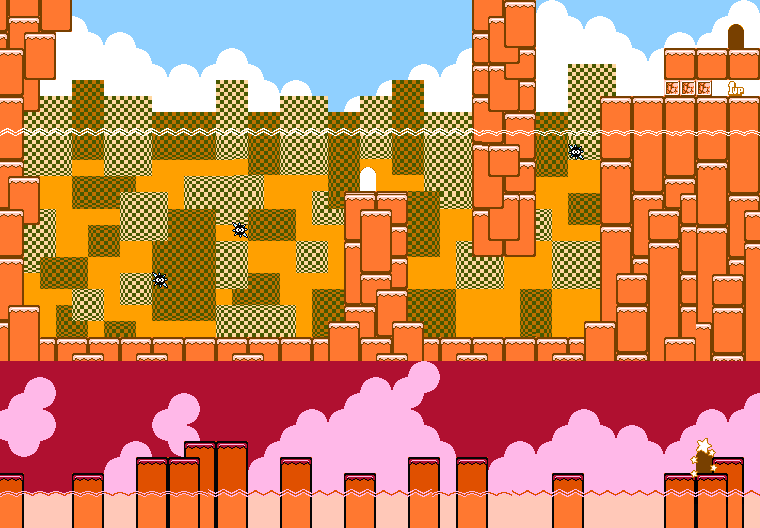
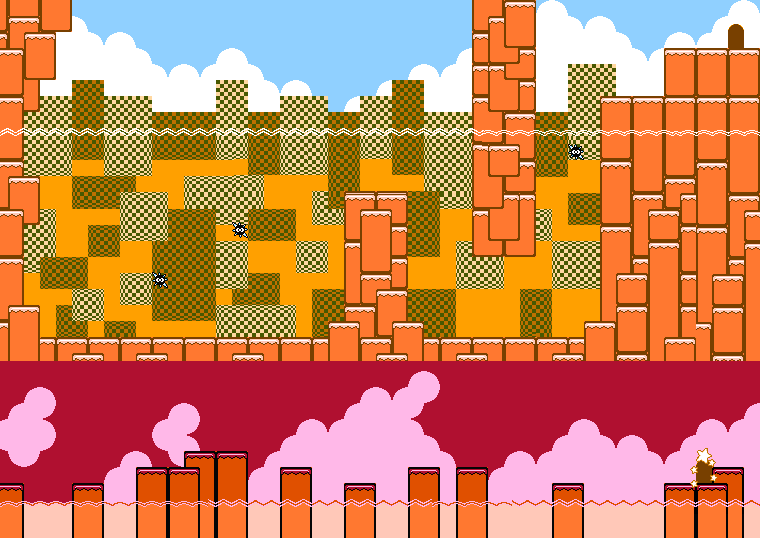
modify collision maps and add enimies

diff --git a/src/GameObj/MovingObj/Kirby.cpp b/src/GameObj/MovingObj/Kirby.cpp
@@ -30,8 +30,9 @@ void Kirby::attack(std::vector<std::unique_ptr<Enemy>>& enemies, float range)
 	bool facingLeft = m_velocity.x < 0 ? true : false;
 	for (auto& enemy : enemies)
 	{
+		float yBuffer = 0.5f; // Buffer to account for slight vertical differences
 		float distanceX = enemy->getPosition().x - getPosition().x;
-		float distanceY = enemy->getPosition().y - getPosition().y;
+		float distanceY = enemy->getPosition().y - getPosition().y + yBuffer;
 		bool inRange = std::abs(distanceX) <= range && std::abs(distanceY) < 2.5f;
 
 		if (collidesWith(*enemy))

diff --git a/src/States/KirbyStates/KirbySwimmingState.cpp b/src/States/KirbyStates/KirbySwimmingState.cpp
@@ -25,7 +25,7 @@ std::unique_ptr<KirbyState> KirbySwimmingState::handleInput(Kirby& kirby)
 
 void KirbySwimmingState::update(Kirby& kirby, float deltaTime)
 {
-	std::cout << "Kirby is updating in swimming state\n";
+	//std::cout << "Kirby is updating in swimming state\n";
 	// 1. Apply Water Physics
 	sf::Vector2f velocity = kirby.getVelocity();
 	// Gravity still applies, but buoyancy pushes upward.

diff --git a/src/States/GameStates/PlayingState.cpp b/src/States/GameStates/PlayingState.cpp
@@ -1,7 +1,7 @@
 #include "States/GameStates/PlayingState.h"
 #include "States/GameStates/MainMenuState.h"
 
-PlayingState::PlayingState(GameController& game) : m_currentLevel(1)
+PlayingState::PlayingState(GameController& game) : m_currentLevel(2)
 {
     // Load the first level when this state begins
    game.loadLevel(m_currentLevel);
